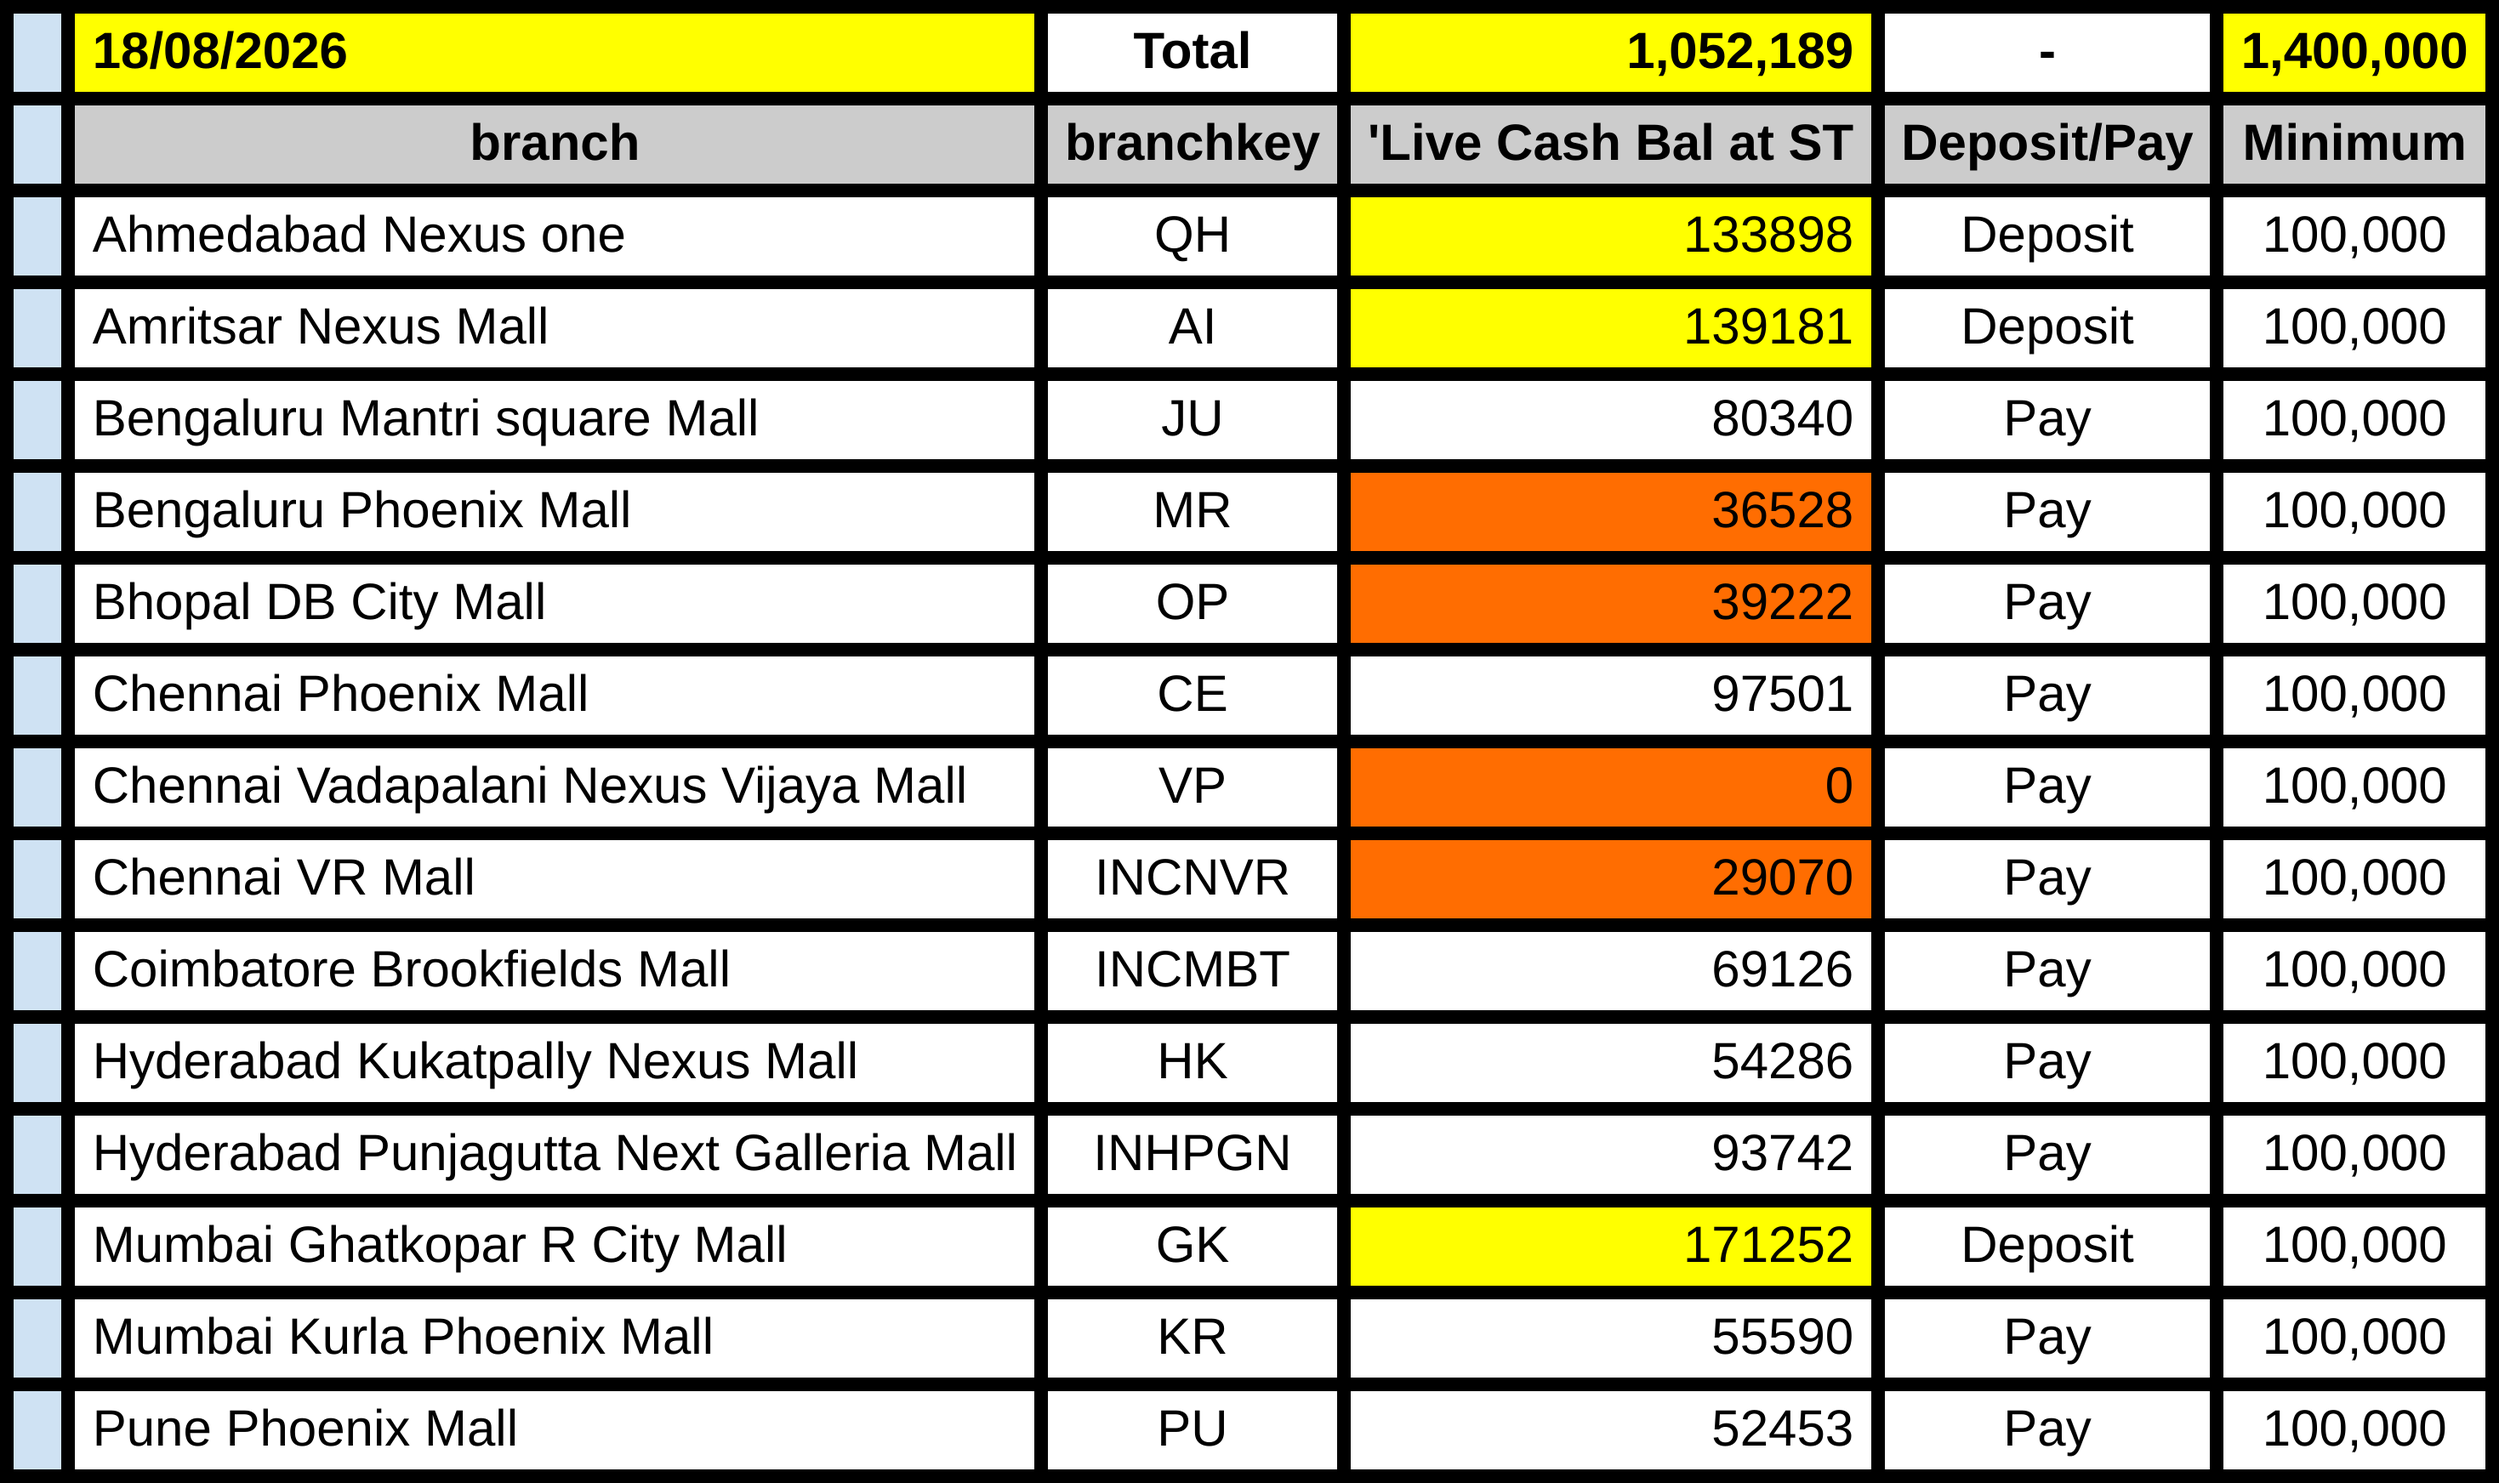
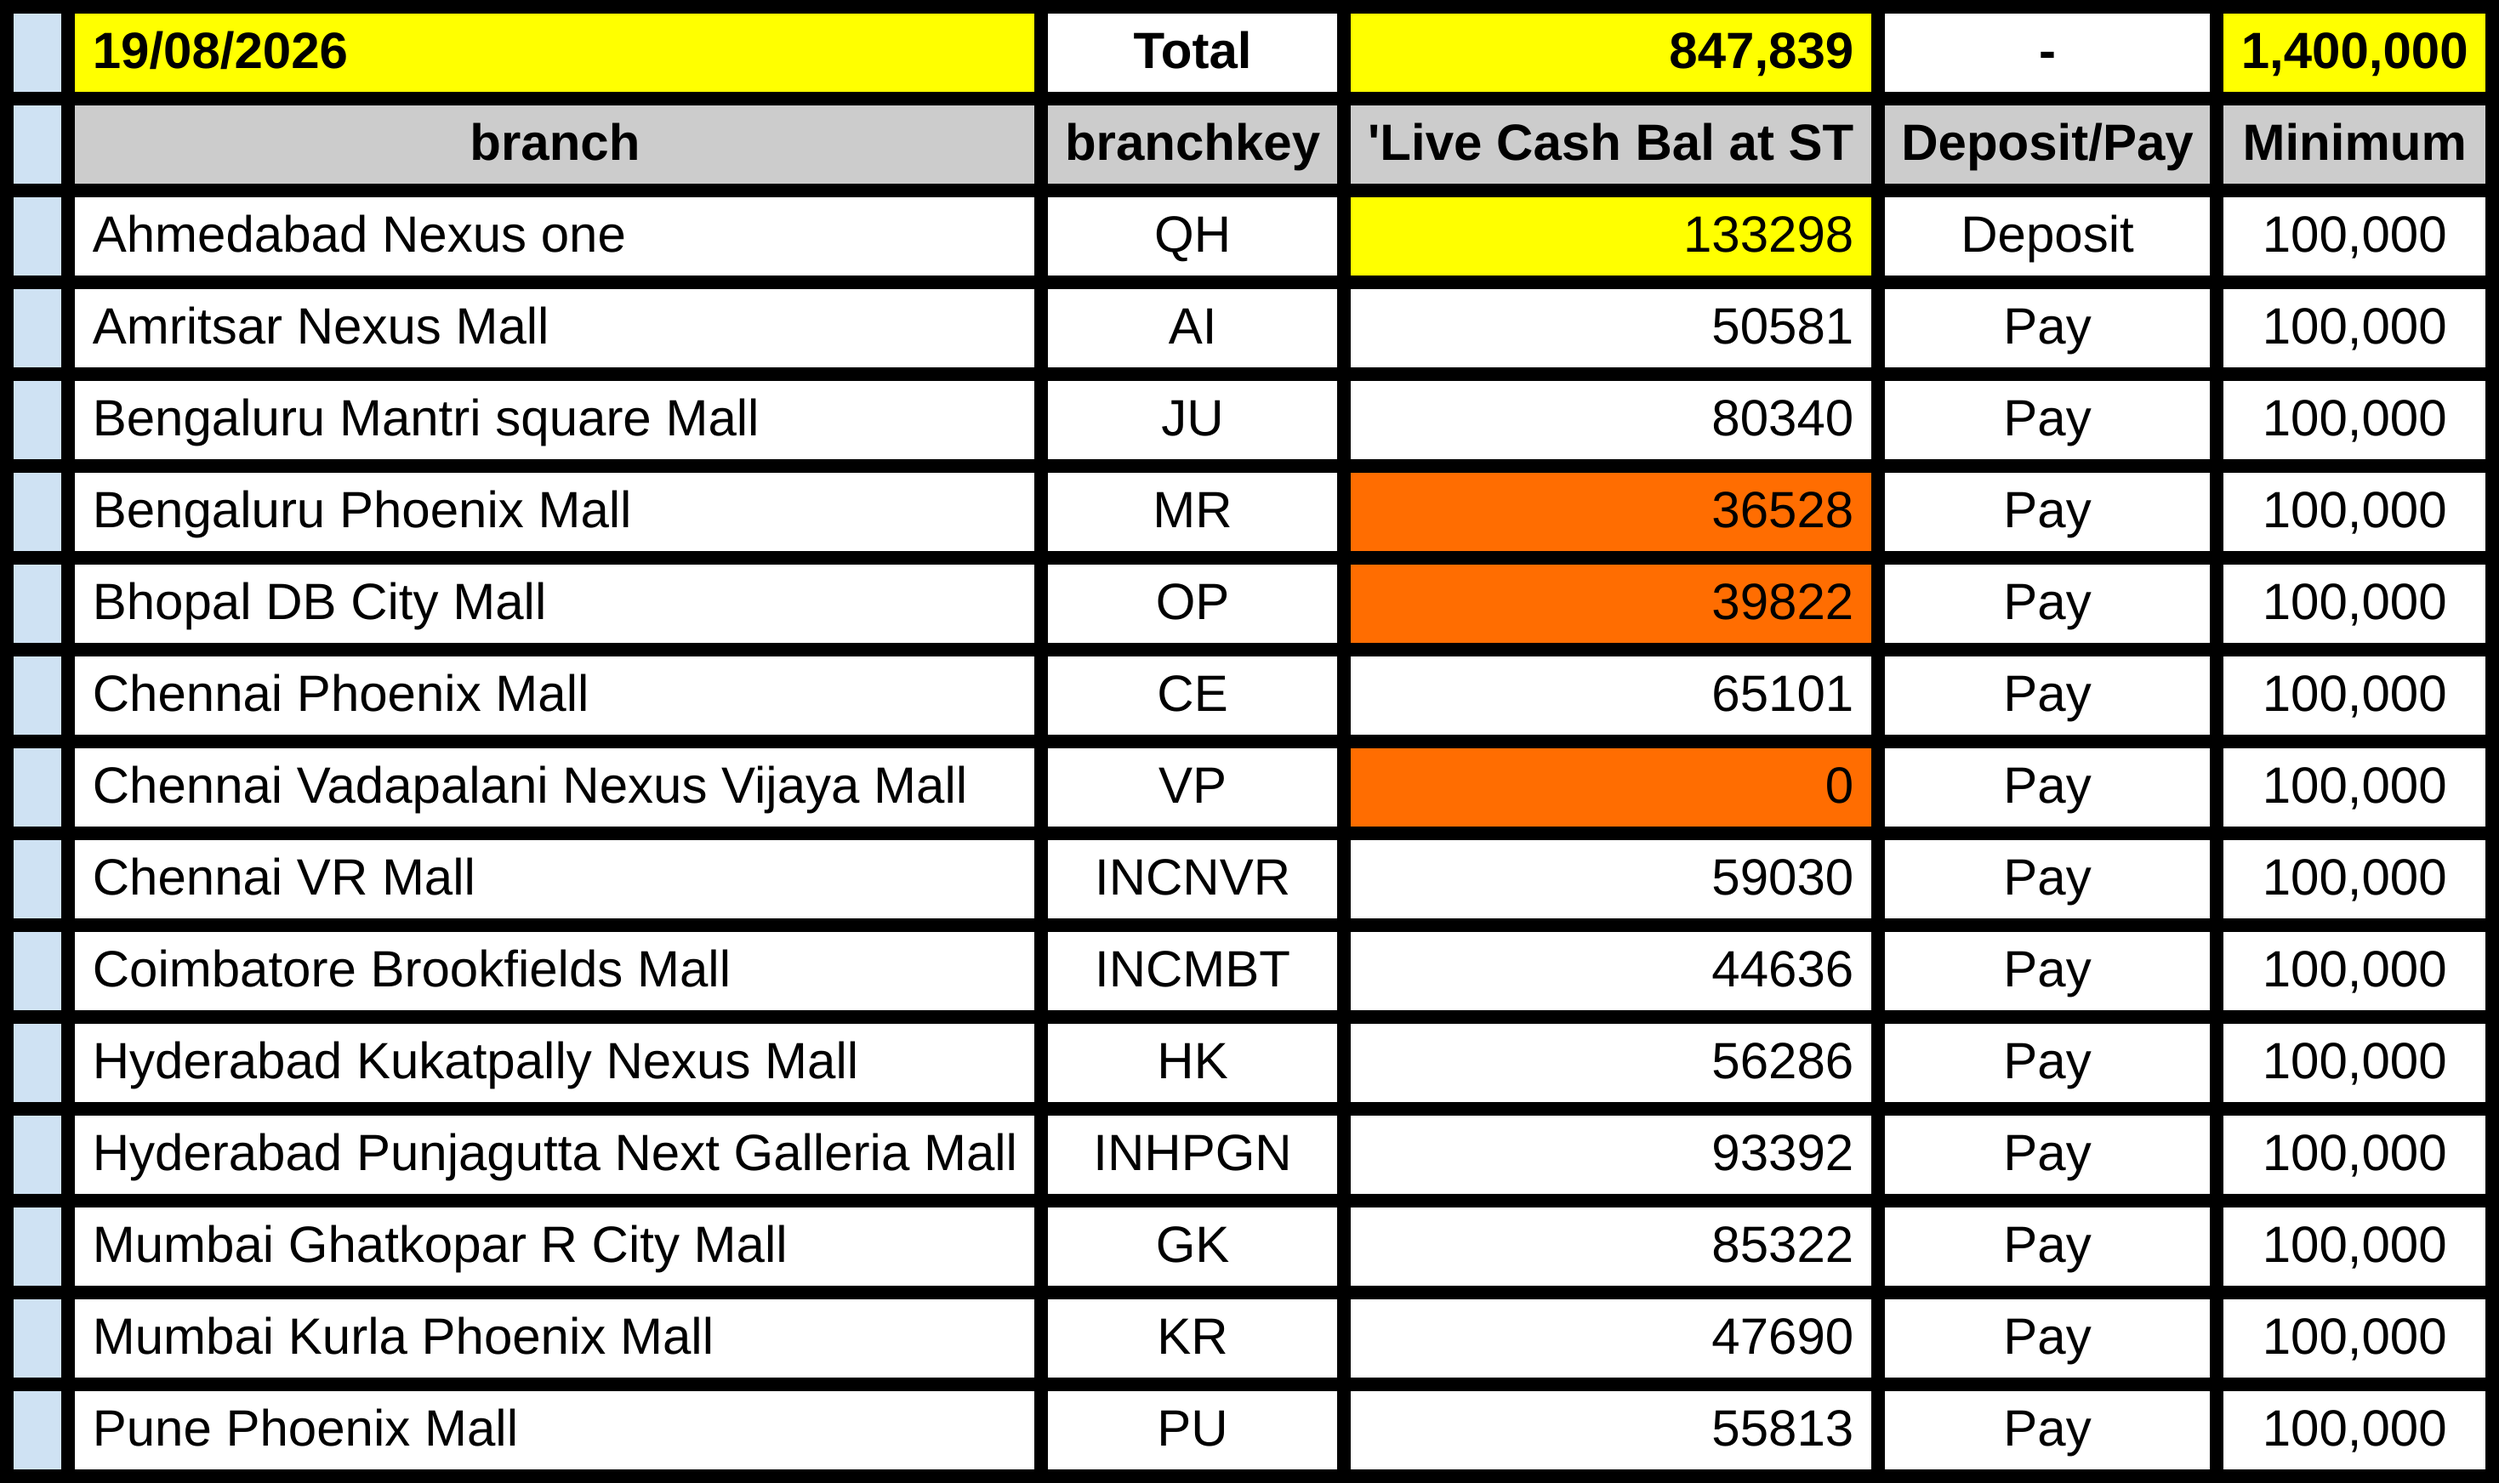
deploy: 1eb6ce62876c9d41067b4594acfaffc291ee4c8b

diff --git a/table.html b/table.html
@@ -35,7 +35,7 @@
           font-family: Arial, sans-serif;
           font-size: 30px;
           white-space: nowrap;
-        ">18/08/2026</td>
+        ">19/08/2026</td>
       
         <td style="
           background-color: #ffffff;
@@ -63,7 +63,7 @@
           font-family: Arial, sans-serif;
           font-size: 30px;
           white-space: nowrap;
-        ">1,052,189</td>
+        ">847,839</td>
       
         <td style="
           background-color: #ffffff;
@@ -231,7 +231,7 @@
           font-family: Arial, sans-serif;
           font-size: 30px;
           white-space: nowrap;
-        ">133898</td>
+        ">133298</td>
       
         <td style="
           background-color: #ffffff;
@@ -304,7 +304,7 @@
         ">AI</td>
       
         <td style="
-          background-color: #ffff00;
+          background-color: #ffffff;
           color: #000000;
           font-weight: normal;
           font-style: normal;
@@ -315,7 +315,7 @@
           font-family: Arial, sans-serif;
           font-size: 30px;
           white-space: nowrap;
-        ">139181</td>
+        ">50581</td>
       
         <td style="
           background-color: #ffffff;
@@ -329,7 +329,7 @@
           font-family: Arial, sans-serif;
           font-size: 30px;
           white-space: nowrap;
-        ">Deposit</td>
+        ">Pay</td>
       
         <td style="
           background-color: #ffffff;
@@ -567,7 +567,7 @@
           font-family: Arial, sans-serif;
           font-size: 30px;
           white-space: nowrap;
-        ">39222</td>
+        ">39822</td>
       
         <td style="
           background-color: #ffffff;
@@ -651,7 +651,7 @@
           font-family: Arial, sans-serif;
           font-size: 30px;
           white-space: nowrap;
-        ">97501</td>
+        ">65101</td>
       
         <td style="
           background-color: #ffffff;
@@ -808,7 +808,7 @@
         ">INCNVR</td>
       
         <td style="
-          background-color: #ff6d01;
+          background-color: #ffffff;
           color: #000000;
           font-weight: normal;
           font-style: normal;
@@ -819,7 +819,7 @@
           font-family: Arial, sans-serif;
           font-size: 30px;
           white-space: nowrap;
-        ">29070</td>
+        ">59030</td>
       
         <td style="
           background-color: #ffffff;
@@ -903,7 +903,7 @@
           font-family: Arial, sans-serif;
           font-size: 30px;
           white-space: nowrap;
-        ">69126</td>
+        ">44636</td>
       
         <td style="
           background-color: #ffffff;
@@ -987,7 +987,7 @@
           font-family: Arial, sans-serif;
           font-size: 30px;
           white-space: nowrap;
-        ">54286</td>
+        ">56286</td>
       
         <td style="
           background-color: #ffffff;
@@ -1071,7 +1071,7 @@
           font-family: Arial, sans-serif;
           font-size: 30px;
           white-space: nowrap;
-        ">93742</td>
+        ">93392</td>
       
         <td style="
           background-color: #ffffff;
@@ -1144,7 +1144,7 @@
         ">GK</td>
       
         <td style="
-          background-color: #ffff00;
+          background-color: #ffffff;
           color: #000000;
           font-weight: normal;
           font-style: normal;
@@ -1155,7 +1155,7 @@
           font-family: Arial, sans-serif;
           font-size: 30px;
           white-space: nowrap;
-        ">171252</td>
+        ">85322</td>
       
         <td style="
           background-color: #ffffff;
@@ -1169,7 +1169,7 @@
           font-family: Arial, sans-serif;
           font-size: 30px;
           white-space: nowrap;
-        ">Deposit</td>
+        ">Pay</td>
       
         <td style="
           background-color: #ffffff;
@@ -1239,7 +1239,7 @@
           font-family: Arial, sans-serif;
           font-size: 30px;
           white-space: nowrap;
-        ">55590</td>
+        ">47690</td>
       
         <td style="
           background-color: #ffffff;
@@ -1323,7 +1323,7 @@
           font-family: Arial, sans-serif;
           font-size: 30px;
           white-space: nowrap;
-        ">52453</td>
+        ">55813</td>
       
         <td style="
           background-color: #ffffff;
